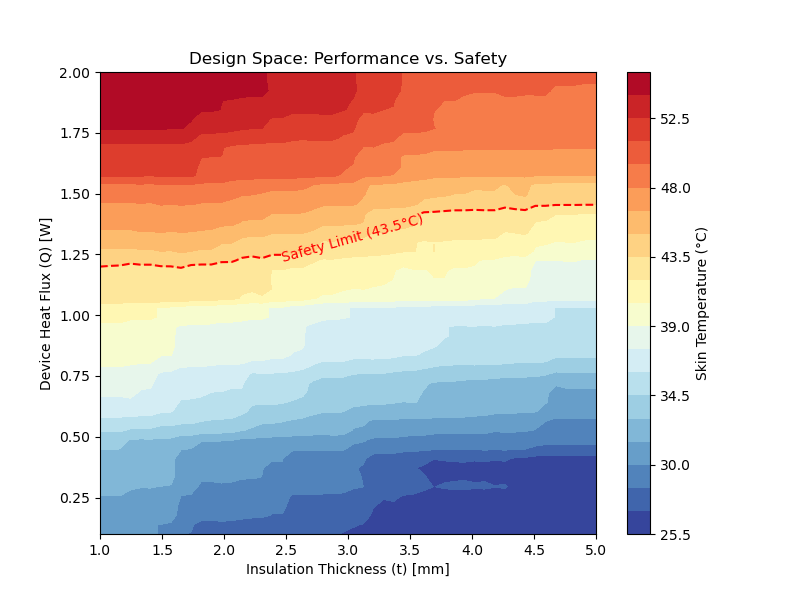
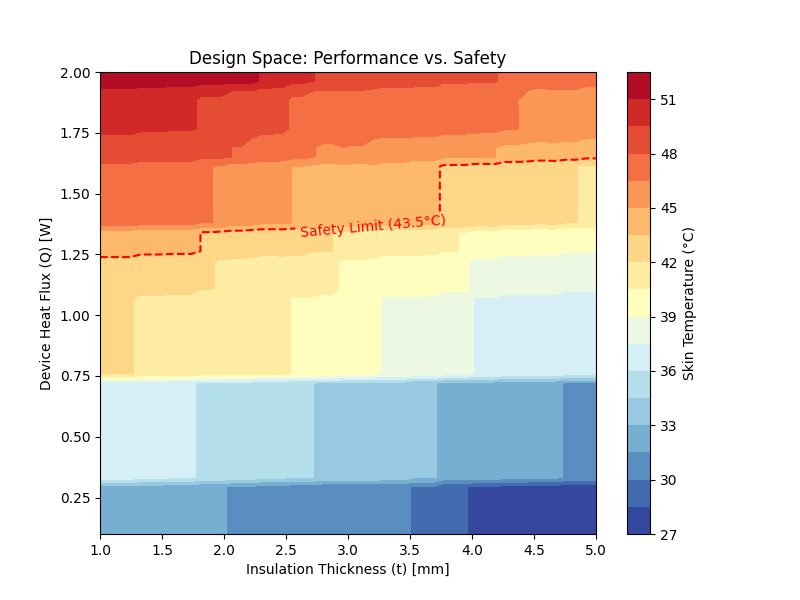
running with test csv file set

diff --git a/aiproject.py b/aiproject.py
@@ -6,66 +6,78 @@ from sklearn.model_selection import train_test_split
 from sklearn.metrics import mean_squared_error, r2_score
 
 # --- STEP 1: DATA LOADING ---
-file_path = 'ansys_results.csv'
-df = pd.read_csv(file_path)
+# Loading the 3-variable dataset [cite: 8, 16]
+try:
+    file_path = 'ansys_results.csv'
+    df = pd.read_csv(file_path)
+    print("✅ Data successfully loaded!")
+except FileNotFoundError:
+    print("❌ Error: 'ansys_results.csv' not found. Please place it in the same folder.")
+    exit()
 
-# Assign inputs and output [cite: 22]
-X = df[['t', 'Q']]
-y = df['Tskin']
+# Assign variables based on updated parameter names [cite: 18, 19]
+X = df[['InsulationThickness', 'HeatFlux']]  # Input variables
+y = df['Tskin']                              # Target variable
 
-# VALIDATION: Split data into 80% Training and 20% Testing
+# --- STEP 2: AI MODEL TRAINING & VALIDATION ---
+# Splitting data to validate using a Test Set (Deliverable Requirement) 
 X_train, X_test, y_train, y_test = train_test_split(X, y, test_size=0.2, random_state=42)
 
-print(f"Dataset Size: {len(df)} cases (Training: {len(X_train)}, Testing: {len(X_test)})")
-
-# --- STEP 2: AI MODEL TRAINING ---
+# Training the Regression Model: Tskin = f(InsulationThickness, HeatFlux) [cite: 22]
 model = RandomForestRegressor(n_estimators=100, random_state=42)
-model.fit(X_train, y_train) # Train ONLY on the training set
+model.fit(X_train, y_train)
 
-# --- STEP 3: ERROR ANALYSIS (Deliverable) ---
-y_pred_test = model.predict(X_test)
-rmse = np.sqrt(mean_squared_error(y_test, y_pred_test))
-accuracy = r2_score(y_test, y_pred_test)
+# --- STEP 3: ERROR ANALYSIS (For Technical Report) ---
+y_pred = model.predict(X_test)
+rmse = np.sqrt(mean_squared_error(y_test, y_pred))
+r2 = r2_score(y_test, y_pred)
 
-print("-" * 30)
-print(f"MODEL PERFORMANCE (Validation)")
-print(f"RMSE: {rmse:.4f} °C")
-print(f"R² Accuracy: {accuracy:.4f}")
-print("-" * 30)
+print("\n--- MODEL PERFORMANCE ANALYSIS ---")
+print(f"Dataset Size: {len(df)} cases")
+print(f"Root Mean Squared Error (RMSE): {rmse:.4f} °C")
+print(f"Model Accuracy (R²): {r2:.4f}")
 
-# --- STEP 4: VISUALIZATION (DESIGN SPACE) [cite: 24, 31] ---
-t_range = np.linspace(1, 5, 50)
-Q_range = np.linspace(0.1, 2.0, 50)
-T_grid = np.zeros((50, 50))
+# --- STEP 4: VISUALIZATION (DESIGN SPACE CONTOUR) ---
+# Generating the contour plot for the technical report [cite: 24, 31]
+thickness_range = np.linspace(1, 5, 100)
+flux_range = np.linspace(0.1, 2.0, 100)
+T_grid = np.zeros((100, 100))
 
-for i, t_val in enumerate(t_range):
-    for j, Q_val in enumerate(Q_range):
-        T_grid[j, i] = model.predict(np.array([[t_val, Q_val]]))[0]
+# Filling the grid with AI predictions
+for i, t_val in enumerate(thickness_range):
+    # Using the new parameter names in the DataFrame to avoid warnings
+    input_batch = pd.DataFrame({'InsulationThickness': [t_val] * 100, 'HeatFlux': flux_range})
+    T_grid[:, i] = model.predict(input_batch)
 
-plt.figure(figsize=(8, 6))
-cp = plt.contourf(t_range, Q_range, T_grid, cmap='RdYlBu_r', levels=20)
-plt.colorbar(cp, label='Skin Temperature (°C)')
-# Draw the safety constraint line at 43.5°C [cite: 26]
-cs = plt.contour(t_range, Q_range, T_grid, levels=[43.5], colors='red', linestyles='--')
-plt.clabel(cs, inline=True, fontsize=10, fmt='Safety Limit (43.5°C)')
-plt.xlabel('Insulation Thickness (t) [mm]')
-plt.ylabel('Device Heat Flux (Q) [W]')
-plt.title('Design Space: Performance vs. Safety')
-plt.savefig('design_space.png')
+plt.figure(figsize=(10, 7))
+cp = plt.contourf(thickness_range, flux_range, T_grid, cmap='RdYlBu_r', levels=25)
+plt.colorbar(cp, label='Skin Temperature ($T_{skin}$) [°C]')
 
-# --- STEP 5: OPTIMIZATION TASK [cite: 26] ---
-best_Q = 0
-best_t = 0
+# Safety Constraint: Must keep Tskin <= 43.5°C [cite: 26]
+cs = plt.contour(thickness_range, flux_range, T_grid, levels=[43.5], colors='red', linewidths=3, linestyles='--')
+plt.clabel(cs, inline=True, fontsize=12, fmt='SAFETY LIMIT (43.5°C)')
 
-for t_val in np.linspace(1, 5, 100):
-    for Q_val in np.linspace(2.0, 0.1, 100):
-        temp_pred = model.predict(np.array([[t_val, Q_val]]))[0]
-        if temp_pred <= 43.5:
-            if Q_val > best_Q:
-                best_Q = Q_val
-                best_t = t_val
-            break 
+plt.xlabel('Insulation Thickness [mm]')
+plt.ylabel('Device Heat Flux [W]')
+plt.title('AI-Generated Design Space: Performance vs. Safety')
+plt.grid(alpha=0.3)
+plt.savefig('design_space_contour.png', dpi=300)
+print("\n✅ Contour plot saved as 'design_space_contour.png'")
 
-print(f"--- Final Recommendation [cite: 33] ---")
-print(f"To maximize performance, we recommend an insulation thickness of {best_t:.2f} mm.")
-print(f"This allows for a maximum power output of {best_Q:.2f} Watts while maintaining skin safety.")
+# --- STEP 5: OPTIMIZATION (FINDING MAX Q) ---
+# Iteratively finding the combination that maximizes HeatFlux while staying safe [cite: 11, 26]
+best_flux, best_thickness = 0, 0
+
+for t_val in thickness_range:
+    # Test heat flux from high to low to find the maximum safe limit
+    for q_val in reversed(flux_range):
+        pred_input = pd.DataFrame({'InsulationThickness': [t_val], 'HeatFlux': [q_val]})
+        pred = model.predict(pred_input)[0]
+        if pred <= 43.5:
+            if q_val > best_flux:
+                best_flux, best_thickness = q_val, t_val
+            break
+
+print("\n--- FINAL RECOMMENDATION ---")
+print(f"To maximize performance, we recommend an insulation thickness of {best_thickness:.2f} mm.")
+print(f"This allows for a maximum power output of {best_flux:.2f} Watts while maintaining skin safety.")
